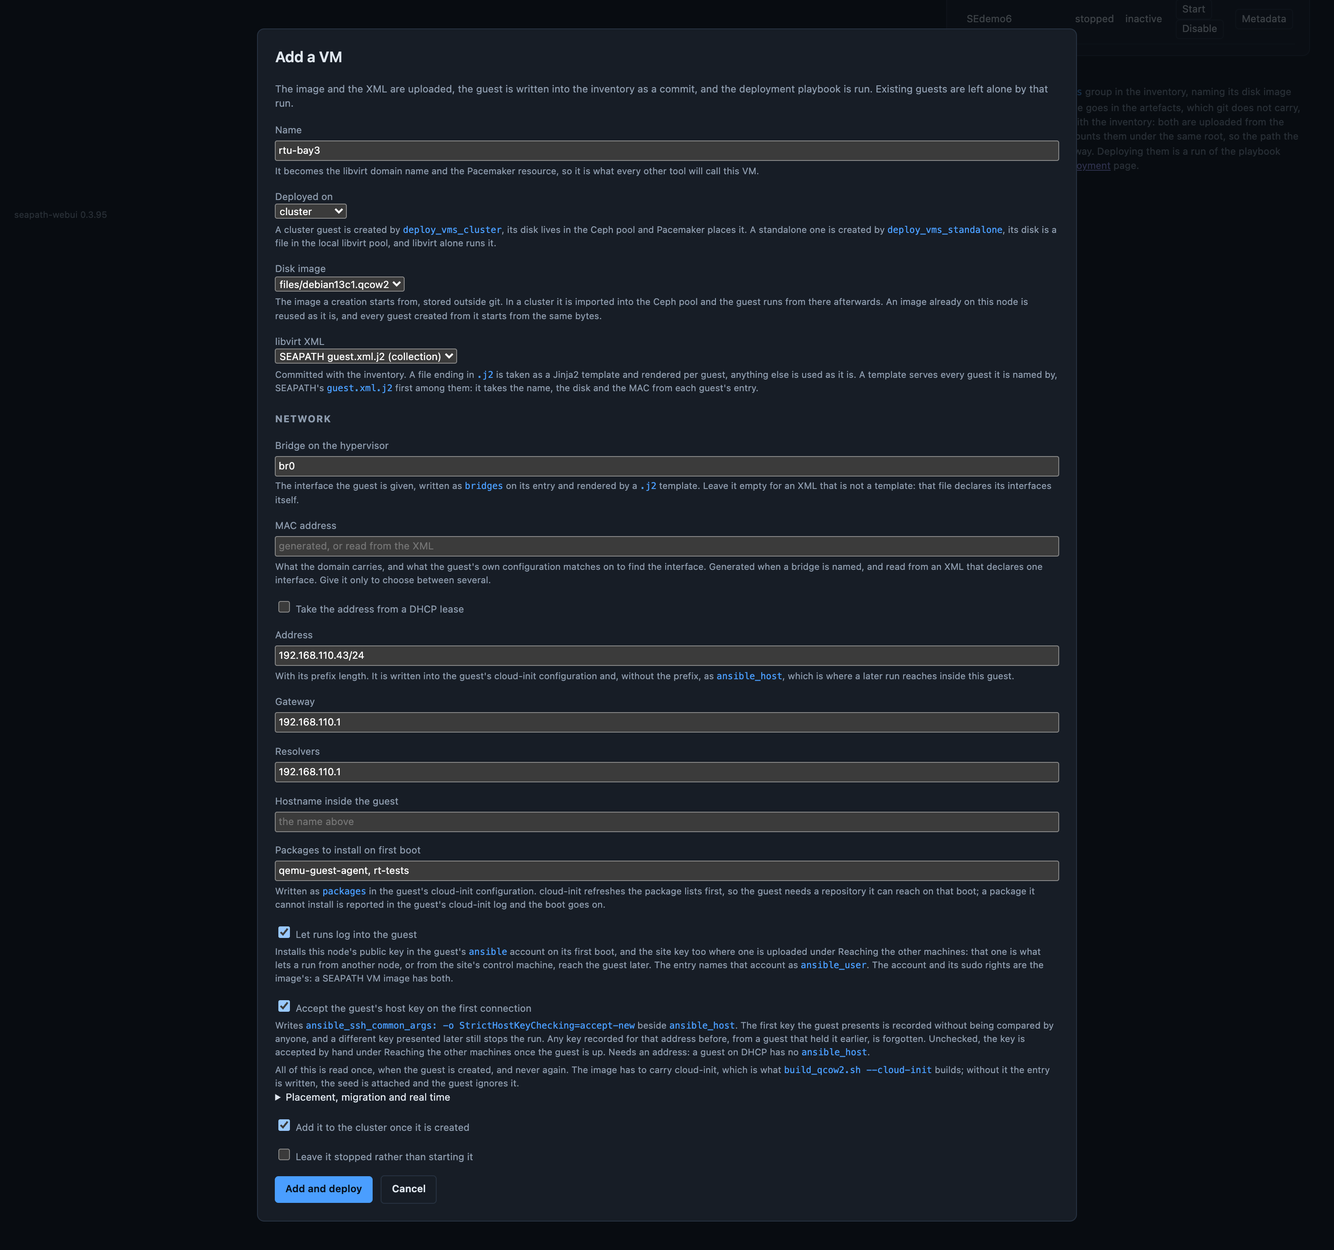
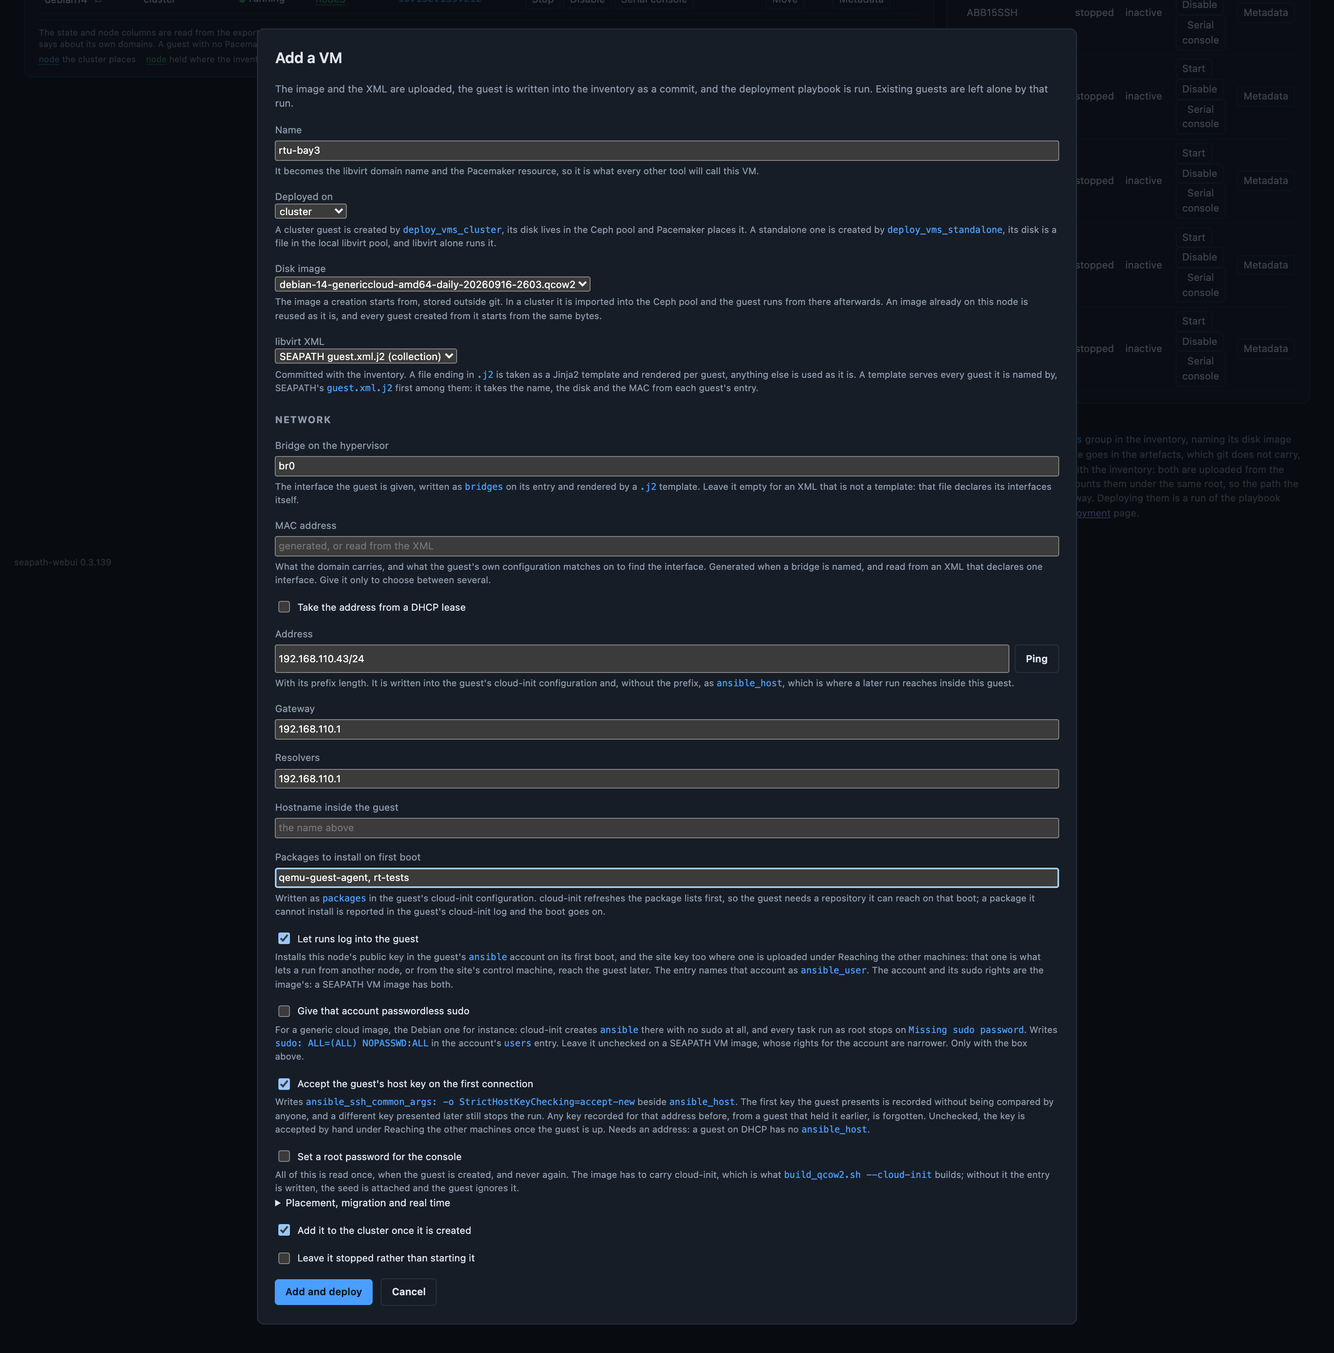
docs: the README shows the Backup page, and every image the new top bar
The top bar gained the Backup tab and the automatic reading switch, so
every image under img/ showed a bar that no longer exists. The whole
set is shot again against 0.3.139 in the frame docs/screenshots.md
records.

The README gains a Backup section with two images, the page and the
listing a restore starts from, and says what the VMs and Containers
pages learnt since the last pass: the Creation column that comes and
goes, the guests running undeclared, Ping, passwordless sudo, the root
password kept out of the inventory, live migration on by default, the
quadlet opened from its row, and Move and Return on a container. Backup
takes number 11, so Real time and Runs move to 12 and 13.

The recipe gains the Cluster views, which are paned like Real time,
the footer's class, and the windows added to the set.

diff --git a/README.md b/README.md
@@ -21,7 +21,7 @@ The fourth machine disappears as a machine, not as a function: its two jobs,
 holding the desired state and running the playbooks, move into the cluster
 itself.
 
-Concretely, the service does four things:
+Concretely, the service does five things:
 
 1. holds the inventory in a git repository, one copy per node sent to the
    others by an explicit push, and edits it as the folder of files it is,
@@ -34,7 +34,10 @@ Concretely, the service does four things:
    stream into a readable progress view;
 4. exposes the runtime plane, meaning starting and stopping the guests and
    the containers, which is not configuration and does not belong in an
-   inventory.
+   inventory;
+5. runs the acts made once rather than kept as state, a backup, a restore, a
+   new partition, as runs of the upstream scripts and roles, recorded with the
+   values they were given.
 
 No SEAPATH role is rewritten, and no configuration file is rendered twice. What
 the UI runs is what the CI tests.
@@ -129,10 +132,13 @@ answer is how a node whose neighbour is down still converges itself. See D39 in
 sit on three other pages. Its definition is an entry of the `VMs` group in the
 inventory, the disk image and the libvirt XML it names are in the two stores
 around that file, and what it is doing right now is one line of the Pacemaker
-resource table. The page puts them on one row: the guest, whether it is running
-and where, whether a deployment would find the two files it names, and what the
-next run does to it, `force` being the word that matters there since the roles
-destroy and recreate a guest that carries it. The node it runs on says in its
+resource table. The page puts them on one row: the guest, which of the two
+deployments creates it, whether it is running and where, and what can be done
+to it. A Creation column joins them while a guest still carries its recipe or
+`force`: whether a deployment would find the two files the entry names, and
+the warning that matters most on the page, since the roles destroy and
+recreate a guest that carries `force`. A converged inventory carries neither,
+and the column stays away. The node it runs on says in its
 colour what holds it there: blue where nothing does and the cluster placed it,
 green where a constraint holds it exactly where its inventory entry declares,
 amber where the cluster and the inventory disagree, with the whole sentence on
@@ -143,7 +149,9 @@ console** is for the guest that no longer answers there: it runs
 `vm-mgr console` as root on a hypervisor, and `vm_manager` finds the machine
 running the guest and attaches to its serial port. A switch above the table
 shows all the guests, the cluster ones or the standalone ones, with a count on
-each.
+each. Beside the table sit the guests Pacemaker runs and the inventory
+describes nowhere, with the same buttons: a convergence leaves them alone, and
+a guest added under one of their names would collide with it.
 
 Where an inventory describes a cluster and a standalone machine at once, each
 guest says which of the two creates it, through `cluster_VMs` and
@@ -178,15 +186,27 @@ accepts the guest's host key on the first connection. The seed is built by the
 role inside this container, like on any control machine, which is why the
 image carries `cloud-localds`. See D48 in [docs/decisions.md](docs/decisions.md).
 
+Three more things sit under the network. **Ping** beside the address sends
+three echo requests from this node, because the file can refuse an address one
+of its own hosts holds and has no view of the rest of the network. A box gives
+the account the seed creates passwordless sudo, for a generic cloud image
+whose `ansible` account otherwise stops every task a run becomes root for. And
+a root password for the serial console, for the guest whose network did not
+come up: it travels with the run that creates the guest, is spliced into that
+run's copy of the inventory and wiped when the run ends, so no form of it is
+ever committed. See D52.
+
 Folded under all of that is what
 `cluster_vm create` is given: placement, priority, live migration and its
 timeouts, colocation, disk bus, the pinning profile. They are asked there
 because each is written once into the guest's image metadata, and changing one
-afterwards costs an outage. Underneath, those are the writes this
-service has always made and the upstream playbook it has always run: the image
-to the store git does not carry, the XML committed with the inventory, the
-guest a splice into the file checked like every other write, and a whole
-playbook of the collection. The operator is spared the trip through two pages
+afterwards costs an outage. Live migration is on unless it is unchecked: without
+it, every move Pacemaker makes for the guest, a failover or the standby before a
+reboot, is a stop on one machine and a boot on the other. Underneath, those
+are the writes this service has always made and the upstream playbook it has
+always run: the image to the store git does not carry, the XML committed with
+the inventory, the guest a splice into the file checked like every other
+write, and a whole playbook of the collection. The operator is spared the trip through two pages
 and a group name they have no reason to know.
 
 ![A run watched over the page that launched it: the playbook, its state, the task being played and the task stream down to the recap](img/6-2-vm-run.png)
@@ -269,6 +289,19 @@ container.
 
 ![Declaring a container: the name, the quadlet file, the group it is uploaded to, and whether Pacemaker runs it](img/7-1-add-container.png)
 
+The Quadlet column names the file podman reads, and clicking it shows that
+file, since its dozen lines answer most of what the row raises: which image,
+which ports, and whether an `[Install]` section is about to start the container
+behind Pacemaker's back. It is read from the inventory folder and from nowhere
+else on this machine, and editing it stays on the Inventory page, where a write
+is a commit. A container the cluster holds says where it runs in the colour of
+its node name, like a guest, and carries **Move** and **Return**, the two acts
+the Cluster page offers on the same Pacemaker resource. Their confirmation says
+what a move costs a container: podman has no live migration, so the unit stops
+on one member and starts on the other.
+
+![A quadlet opened from its row: where it is uploaded, where the inventory keeps it, and the file podman reads](img/7-2-container-quadlet.png)
+
 ![The Cluster page, Membership: quorum, votes and fencing, over the nodes and the machines asked](img/8-cluster-membership.png)
 
 **Cluster** is what the machines are doing right now, which is the one question
@@ -315,7 +348,58 @@ stays an inventory change and a run.
 
 ![The Cluster page, Storage: Ceph health and capacity, over the monitors, the managers and the OSDs](img/10-cluster-storage.png)
 
-![The Real time page, Conformance: the five view tabs and their summaries, over one row per check and one column per machine](img/11-1-realtime-conformance.png)
+![The Backup page: where the backups go and whether a full one fits, the staging directories on the member that runs them, and what a full backup would weigh](img/11-backup.png)
+
+**Backup** is the `backup_restore` role of the collection, which upstream is
+four scripts and a whiptail menu on every machine. The scripts are kept, and the
+menu stays on the machines: this page holds the seven values the menu holds, as
+inventory variables, and passes them on the command line of a run. **Back up
+everything** exports the RBD images of every selected guest as qcow2 and rsyncs
+them to the backup server. **Back up the changes** exports the RBD diffs since
+the latest snapshot into the same directory. Each is a run on one named member,
+under the cluster's run lock, and its confirmation names what it erases, since
+a full backup purges the snapshots each image carries. The guests keep running
+throughout. Where the `/etc/backup-restore.conf` of a machine, which its menu
+still reads, says something else than the inventory, the page names the
+difference, and the next convergence renders the file from the inventory. See
+D53 and D55 in [docs/decisions.md](docs/decisions.md).
+
+Around the buttons sit the readings that decide whether pressing one will
+work, all asked of the member the backups run on. The staging directories,
+where a full backup writes every qcow2 before it sends anything, with the file
+system each one is on and its room: on a machine installed from the ISO the
+root file system is a few tens of gigabytes, and that is where a first backup
+fails, an hour in. The local file systems the staging could move to, one click
+each, which commits the two directories under that mount point and runs the
+role that creates them. The estimated volume, `rbd du` of the selected guests'
+disks, behind a button because it walks every object of them. And, once both
+are known, whether a full backup fits, on the staging and on the server. Where
+no file system has the room, a local volume can be created, a partition in the
+free space after the last one of a disk, by a run of the upstream
+`configure_local_storage` role on that machine alone. The run records the
+volume and the inventory keeps nothing, since a partition is made once. See D56
+and D58.
+
+The backups are pushed by root on a member, with no password, so each member
+needs a key the backup server accepts and the server's host key. The page asks
+every member to connect the way a backup connects, and where one cannot, it
+does both halves: the role generates a key dedicated to the backups and records
+the server's host key once an operator has confirmed it, and the page appends
+the members' keys to the server's `authorized_keys` with the account's password
+typed once, neither stored nor logged. That append is the one write this
+service makes on a machine outside the inventory. See D57.
+
+![Show the backups: what the backup server holds, one row per full backup and guest, with the dates each can be restored to](img/11-1-backup-list.png)
+
+**Show the backups** asks the server what it holds, over one SSH connection
+through the member, and opens the listing in a window that says when it was
+read. It is a read, so it takes no lock and leaves no run behind. A restore
+starts from a row: the window turns into its confirmation, naming the guest
+about to be replaced and the date its changes are replayed up to, and the
+restore is a run of `restore_vm.sh`, which recreates the guest with
+`vm-mgr create --force`. See D54.
+
+![The Real time page, Conformance: the five view tabs and their summaries, over one row per check and one column per machine](img/12-1-realtime-conformance.png)
 
 **Real time** answers whether the machines came out of a convergence with the
 tuning they were told to have. One row per check, one column per machine: each
@@ -354,7 +438,7 @@ each host and publishes it, and this container could not compute it if it
 wanted to, since occupancy is the affinity of every QEMU thread in `/proc`.
 Asking the exporter is the opposite of holding a second source of truth for it.
 
-![The Real time page, CPU pool: one column per physical core and one cell per thread, on every machine the inventory declares](img/11-2-realtime-cpu-pool.png)
+![The Real time page, CPU pool: one column per physical core and one cell per thread, on every machine the inventory declares](img/12-2-realtime-cpu-pool.png)
 
 It is the one page laid out as an application rather than as a document. Five
 views, Conformance, CPU pool, Latency, Guest latency and Firmware, and a bar of
@@ -365,9 +449,9 @@ forty-eight threads need. Every reading is fetched before the first tab is
 drawn, so switching asks the machines for nothing. See D24, D26, D27 and D28 in
 [docs/decisions.md](docs/decisions.md).
 
-![The Real time page, Latency: what cyclictest measured on each machine, over the form that launches the run](img/11-3-realtime-latency.png)
+![The Real time page, Latency: what cyclictest measured on each machine, over the form that launches the run](img/12-3-realtime-latency.png)
 
-![The Real time page, Firmware: what hwlatdetect found on each machine, over the form that launches the run](img/11-5-realtime-firmware.png)
+![The Real time page, Firmware: what hwlatdetect found on each machine, over the form that launches the run](img/12-5-realtime-firmware.png)
 
 Latency and Firmware carry a form, which the other two views have no use for.
 Reading what a machine publishes costs one HTTP GET; a measurement asks the
@@ -399,9 +483,9 @@ packages are written into its cloud-init seed, which the upstream role builds
 and the guest applies on its first boot. See D41 and D48 in
 [docs/decisions.md](docs/decisions.md).
 
-![The Real time page, Guest latency: what cyclictest measured inside one guest, over the form and this node's public key that make a guest measurable](img/11-4-realtime-guest-latency.png)
+![The Real time page, Guest latency: what cyclictest measured inside one guest, over the form and this node's public key that make a guest measurable](img/12-4-realtime-guest-latency.png)
 
-![The Runs page: the history on the left, one run and its task stream on the right](img/12-runs.png)
+![The Runs page: the history on the left, one run and its task stream on the right](img/13-runs.png)
 
 **Runs** is what happened. Every run keeps the playbook, who launched it, the
 inventory commit it ran against and the exact `ansible-playbook` command, so a
@@ -409,9 +493,9 @@ run can be read months later or replayed from a control machine. The event
 stream becomes the per host recap Ansible prints at the end, the task stream as
 it arrives, and where the time went. The log is downloadable whole.
 
-![The per host recap Ansible prints at the end, opened under the run](img/12-1-runs-results.png)
+![The per host recap Ansible prints at the end, opened under the run](img/13-1-runs-results.png)
 
-![Where the time went: the tasks of a run, ordered by the seconds each took](img/12-2-runs-time.png)
+![Where the time went: the tasks of a run, ordered by the seconds each took](img/13-2-runs-time.png)
 
 Every page is drawn in the palette the operator's system asks for, and the
 switch in the top bar overrides it in either direction or hands the choice
@@ -440,9 +524,8 @@ the two measurements as ordinary playbooks. And the update path of D23: the
 collection a node runs can be replaced by a file, and the version of this
 service each machine runs is an inventory variable that an apply carries.
 [docs/validation.md](docs/validation.md) holds one checklist per milestone and
-per piece that arrived on its own, six of them today: M0, M1, Real time, the
-inventory replication, the Cluster page and the containers. All six are still
-to be run on a real machine.
+per piece that arrived on its own, from M0 to the backups. Almost all of it is
+still to be run on a real machine.
 
 M2 is the VMs and the containers, and most of it is in. For a guest, the `VMs`
 group is read as guests rather than as machines, the page joins what the
@@ -451,11 +534,18 @@ it its network through a cloud-init seed, starting and stopping one are runs,
 the RBD metadata is read and edited from the same page, a guest can be sent to
 a named node and given back to the cluster, disabled, enabled and deleted, and
 its creation lines leave its entry once it is created, with the files they
-named deleted from the row.
-The snapshots follow the same shape. For a container,
+named deleted from the row. The snapshots are what is left, and follow the
+same shape. For a container,
 the quadlets the inventory uploads are read back with the unit each machine
 made of them, declaring one writes the three variables the upstream roles
-already read, and starting or stopping one is a run.
+already read, starting or stopping one is a run, and one the cluster holds is
+moved and returned like a guest.
+
+The **Backup** page arrived beside them. It runs the four scripts of the
+upstream `backup_restore` role as runs, says before a backup whether it will
+fit, sets up the members' connection to the backup server, gives the staging a
+volume of its own when the machine has none with the room, and restores one
+guest from the listing.
 
 Two pieces of M3 arrived early, because the pages being written needed them.
 The **Cluster** page reads Pacemaker and Ceph from the exporters a deployed

diff --git a/docs/screenshots.md b/docs/screenshots.md
@@ -29,23 +29,28 @@ Neither credential lives in this repository. The maintainer supplies both out
 of band; keep them out of git, out of the script, and out of any committed
 file. Pass them to the script through the environment (see below).
 
-## The Real time page: five views in one shot each
+## The Real time and Cluster pages: one shot per view
 
-Real time is an application layout (D28): the shell is the viewport and one
-panel is on screen at a time, so a full-page capture would only grab the first
-panel. Switch the tab, then clip to the visible card's real bottom. The five
-views, in the tab order, which is also the file numbering:
+Real time and Cluster are application layouts (D28): the shell is the viewport
+and one panel is on screen at a time, so a full-page capture would only grab
+the first panel. Switch the tab, then clip to the visible card's real bottom.
+Cluster's three views, `members`, `resources` and `storage`, are
+`8-cluster-membership.png`, `9-cluster-resources.png` and
+`10-cluster-storage.png`. The five views of Real time, in the tab order, which
+is also the file numbering:
 
 | `data-view`        | file                              |
 | ------------------ | --------------------------------- |
-| `checks`           | `11-1-realtime-conformance.png`   |
-| `pool`             | `11-2-realtime-cpu-pool.png`      |
-| `cyclictest`       | `11-3-realtime-latency.png`       |
-| `guest_cyclictest` | `11-4-realtime-guest-latency.png` |
-| `hwlatdetect`      | `11-5-realtime-firmware.png`      |
+| `checks`           | `12-1-realtime-conformance.png`   |
+| `pool`             | `12-2-realtime-cpu-pool.png`      |
+| `cyclictest`       | `12-3-realtime-latency.png`       |
+| `guest_cyclictest` | `12-4-realtime-guest-latency.png` |
+| `hwlatdetect`      | `12-5-realtime-firmware.png`      |
 
-When a view is added or renamed, keep the file numbers following the tab order
-and update the README captions and this table together.
+When a view or a page is added or renamed, keep the file numbers following the
+tab order, and update the README captions and this table together. The pages
+follow the top bar: Node 1, Inventory 2, Deployment 3 to 5, VMs 6, Containers
+7, Cluster 8 to 10, Backup 11, Real time 12, Runs 13.
 
 ## The script
 
@@ -61,11 +66,11 @@ const GATE = { username: process.env.GATE_USER, password: process.env.GATE_PASS 
 const APP_USER = process.env.APP_USER, APP_PASS = process.env.APP_PASS;
 
 const VIEWS = [
-  ['checks', '11-1-realtime-conformance'],
-  ['pool', '11-2-realtime-cpu-pool'],
-  ['cyclictest', '11-3-realtime-latency'],
-  ['guest_cyclictest', '11-4-realtime-guest-latency'],
-  ['hwlatdetect', '11-5-realtime-firmware'],
+  ['checks', '12-1-realtime-conformance'],
+  ['pool', '12-2-realtime-cpu-pool'],
+  ['cyclictest', '12-3-realtime-latency'],
+  ['guest_cyclictest', '12-4-realtime-guest-latency'],
+  ['hwlatdetect', '12-5-realtime-firmware'],
 ];
 
 (async () => {
@@ -106,23 +111,34 @@ The footer prints `seapath-webui <version>`. Read it off the shot to prove it
 came from the build you meant, since a check turns green only once the fix it
 covers has shipped (for example clock synchronisation went green in 0.3.80).
 
-The other pages are the two-pane document layout, not this paned one, so they
-are captured full-page and do not need the per-view clip. Clip them to the
-footer's bottom plus 12 px, so the empty ground a tall viewport leaves under a
-short page is not in the image.
+The other pages are the document layout, so they are captured full-page and do
+not need the per-view clip. Clip them to the bottom of `footer.footer` plus
+12 px, so the empty ground a tall viewport leaves under a short page is not in
+the image. Select it by its class: the Node page has a `<footer>` of its own
+inside a card. The Node page is served at the root, `BASE + '/'`.
+
+`13-runs.png` and `13-1-runs-results.png` show the `backup_full` run, opened
+with `runs?run=<id>`; the second has the per host table unfolded by a click on
+`#hosts-summary`.
 
 ## Windows over a page
 
-Three images show a window rather than a page. Use a viewport tall enough for
+These images show a window rather than a page. Use a viewport tall enough for
 the window to fit (2600 px does), open it, and clip to the full 1500 px width
 from 32 px above the `.modal-body` to 32 px below it, so the dimmed page
 shows at both sides.
 
 | file                           | how the window is opened                                                                                                                |
 | ------------------------------ | --------------------------------------------------------------------------------------------------------------------------------------- |
-| `5-1-deployment-machines.png`  | Deployment, the first **Choose machines**, with `node1` and `node2` checked. Close with Cancel.                                          |
+| `4-deployment-reaching.png`    | Deployment, `#reach-open`. Close with Close. |
+| `5-deployment-code.png`        | Deployment, `#collection-open`. Close with Close. |
+| `5-1-deployment-machines.png`  | Deployment, the first **Choose machines**, with `node1` and `node2` checked, then the list scrolled back to its top. Close with Cancel. |
 | `6-1-add-vm.png`               | VMs, **Add a VM**: name `rtu-bay3`, a held qcow2 and `guest.xml.j2` picked, bridge `br0`, address `192.168.110.43/24`, gateway and resolver `192.168.110.1`, packages `qemu-guest-agent, rt-tests`. Never press Add and deploy. |
 | `6-2-vm-run.png`               | VMs, then `RunWatch.open("<id>")` from `page.evaluate`, with the id of a finished `deploy_vms_cluster` run from `GET api/v1/runs`, and 8 s for the stream to replay. |
+| `7-1-add-container.png`        | Containers, `#add`, empty. Close with Cancel. |
+| `7-2-container-quadlet.png`    | Containers, the first `.quadlet-open` link. |
+| `11-1-backup-list.png`         | Backup, **Show the backups**, once `#catalogue-table` is shown. A read over SSH, no run. Never press Restore. |
+| `13-2-runs-time.png`           | Runs, `runs?run=<id>` of the same finished `deploy_vms_cluster` run, then **Where the time went**. |
 
 The run window replays a run that already happened, so no playbook is launched
 to take this picture: these are live substation hypervisors.
